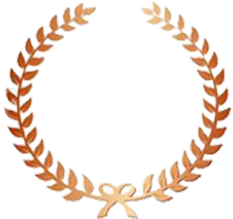
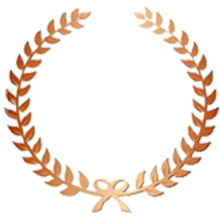
Se ha creado un metodo para modificar el error admitido en el movimiento del brazo.

Changed region(s): [[0.0, 0.0, 1.0, 1.0], [0.0273, 0.0, 0.4364, 0.411]]

diff --git a/MainWindow.xaml b/MainWindow.xaml
@@ -56,13 +56,13 @@
         </Viewbox>
         <StatusBar Grid.Row="3" HorizontalAlignment="Stretch" Name="statusBar" VerticalAlignment="Bottom" Background="White" Foreground="{StaticResource MediumGreyBrush}"></StatusBar>
         <Label Content="Repeticiones restantes" FontSize="22" Height="40" HorizontalAlignment="Left" Margin="685,358,0,0" Name="label1" VerticalAlignment="Top" Width="232" Grid.Row="1" />
-        <TextBlock Height="48" FontSize="24" HorizontalAlignment="Center" Margin="10,53,12,527" Name="sms_block" VerticalAlignment="Center" Width="954" Grid.RowSpan="2" />
+        <TextBlock Height="48" FontSize="24" HorizontalAlignment="Center" Margin="10,53,308,527" Name="sms_block" VerticalAlignment="Center" Width="658" Grid.RowSpan="2" />
         <TextBlock Height="41" FontSize="24" HorizontalAlignment="Right" Margin="0,357,12,0" Name="num_rep" VerticalAlignment="Top" Width="41" Grid.Row="1" />
         <Button Grid.Row="1" Height="50" HorizontalAlignment="Left" Margin="685,497,0,0" Name="bot_inicio" VerticalAlignment="Top" Width="279" Click="bot_inicio_Click">
             <Image Source="Images\play.png"></Image>
         </Button>
         <TextBlock Grid.Row="1" Height="40" FontSize="24" HorizontalAlignment="Left" Margin="779,420,0,0" Name="time" VerticalAlignment="Top" Width="185" />
-        <Image Grid.Row="1" Height="186" HorizontalAlignment="Left" Margin="684,51,0,0" Name="medalla" Stretch="Fill" VerticalAlignment="Top" Width="280" />
+        <Image Grid.Row="1" Height="220" HorizontalAlignment="Left" Margin="713,0,0,0" Name="medalla" Stretch="Fill" VerticalAlignment="Top" Width="220" />
         <Label Content="Tiempo" FontSize="23" Grid.Row="1" Height="41" HorizontalAlignment="Left" Margin="685,419,0,0" Name="label2" VerticalAlignment="Top" Width="88" />
         <Slider Grid.Row="1" Height="23" HorizontalAlignment="Left" Margin="684,315,0,0" Name="slider_error" VerticalAlignment="Top" Width="194" ValueChanged="slider_error_ValueChanged" />
         <Label Content="ELIGA ERROR PERMITIDO" FontSize="16" Grid.Row="1" Height="31" HorizontalAlignment="Left" Margin="684,278,0,0" Name="label3" VerticalAlignment="Top" Width="194" />

diff --git a/ejercicio_fitness.cs b/ejercicio_fitness.cs
@@ -395,6 +395,7 @@ namespace Microsoft.Samples.Kinect.ColorBasics
 
          private SkeletonPoint initial_wrist;
          private SkeletonPoint initial_shoulder;
+         SkeletonPoint vector_brazo;
 
          private SkeletonPoint error_medio;
          private double error_medio_angulo;
@@ -420,6 +421,8 @@ namespace Microsoft.Samples.Kinect.ColorBasics
             this.initial_shoulder.X = this.initial_shoulder.Y = this.initial_shoulder.Z = 0;
             this.error_medio = new SkeletonPoint();
             this.error_medio.X = this.error_medio.Y = this.error_medio.Z = 0;
+            this.vector_brazo = new SkeletonPoint();
+            this.vector_brazo.X = this.vector_brazo.Y = this.vector_brazo.Z = 0;
             this.error_medio_angulo = 0;
             this.error_medio_X = 0;
             this.error_medio_Z = 0;
@@ -474,7 +477,6 @@ namespace Microsoft.Samples.Kinect.ColorBasics
                else
                {
                   SkeletonPoint wrist_with_error = new SkeletonPoint();
-                  SkeletonPoint vector_brazo = new SkeletonPoint();
                   SkeletonPoint wrist_with_Z_offset = new SkeletonPoint();
 
                   foreach (SkeletonPoint punto in l_puntos_calibracion)
@@ -517,24 +519,20 @@ namespace Microsoft.Samples.Kinect.ColorBasics
                {
                   estado = ESTADO.COMPLETADO;
                }
-            }/*
-            else if (estado == ESTADO.HACIA_ABAJO)
-            {
-               valores_base(initial_shoulder, initial_wrist, wrist, out this.angulo, out diferencia_X, out diferencia_Z);
+            }
+         }
 
-               if (diferencia_X > (2 * error_medio_X + offset_dim))
-               {
-                  estado = ESTADO.ERROR_MARGEN_X;
-               }
-               else if (this.angulo >= (angulo_objetivo + error_medio_angulo + offset_angulo / 2))
-               {
-                  estado = ESTADO.ERROR_MARGEN_Z;
-               }
-               else if (this.angulo < (error_medio_angulo + offset_angulo / 2))
-               {
-                  estado = ESTADO.COMPLETADO;
-               }
-            }*/
+         public void setError(double new_offset_perc) 
+         {
+            double diferencia_X, diferencia_Z;
+            SkeletonPoint wrist_with_Z_offset = new SkeletonPoint();
+
+            offset_perc = new_offset_perc;
+            offset_dim = offset_perc * modulo(vector_brazo);
+            wrist_with_Z_offset = initial_wrist;
+            wrist_with_Z_offset.Z += (float)offset_dim;
+            valores_base(initial_shoulder, initial_wrist, wrist_with_Z_offset, out offset_angulo,
+                out diferencia_X, out diferencia_Z);
          }
 
          public ESTADO getEstado()

diff --git a/MainWindow.xaml.cs b/MainWindow.xaml.cs
@@ -208,6 +208,7 @@ namespace Microsoft.Samples.Kinect.ColorBasics
 
            using (DrawingContext dc = this.drawingGroup.Open())
            {
+              // CÓDIGO EXTRAIDO DEL COMPAÑERO: OLIVER SÁNCHEZ MARÍN
               // Draw a transparent background to set the render size
               dc.DrawRectangle(Brushes.Transparent, null, new Rect(0.0, 0.0, RenderWidth, RenderHeight));
 
@@ -404,6 +405,8 @@ namespace Microsoft.Samples.Kinect.ColorBasics
 
            mov_pierna_der.setError(slider_error.Value);
            mov_pierna_izq.setError(slider_error.Value);
+           mov_brazo_der.setError(slider_error.Value);
+           mov_brazo_izq.setError(slider_error.Value);
 
            error_actual.Text = slider_error.Value.ToString("0.00");
         }
